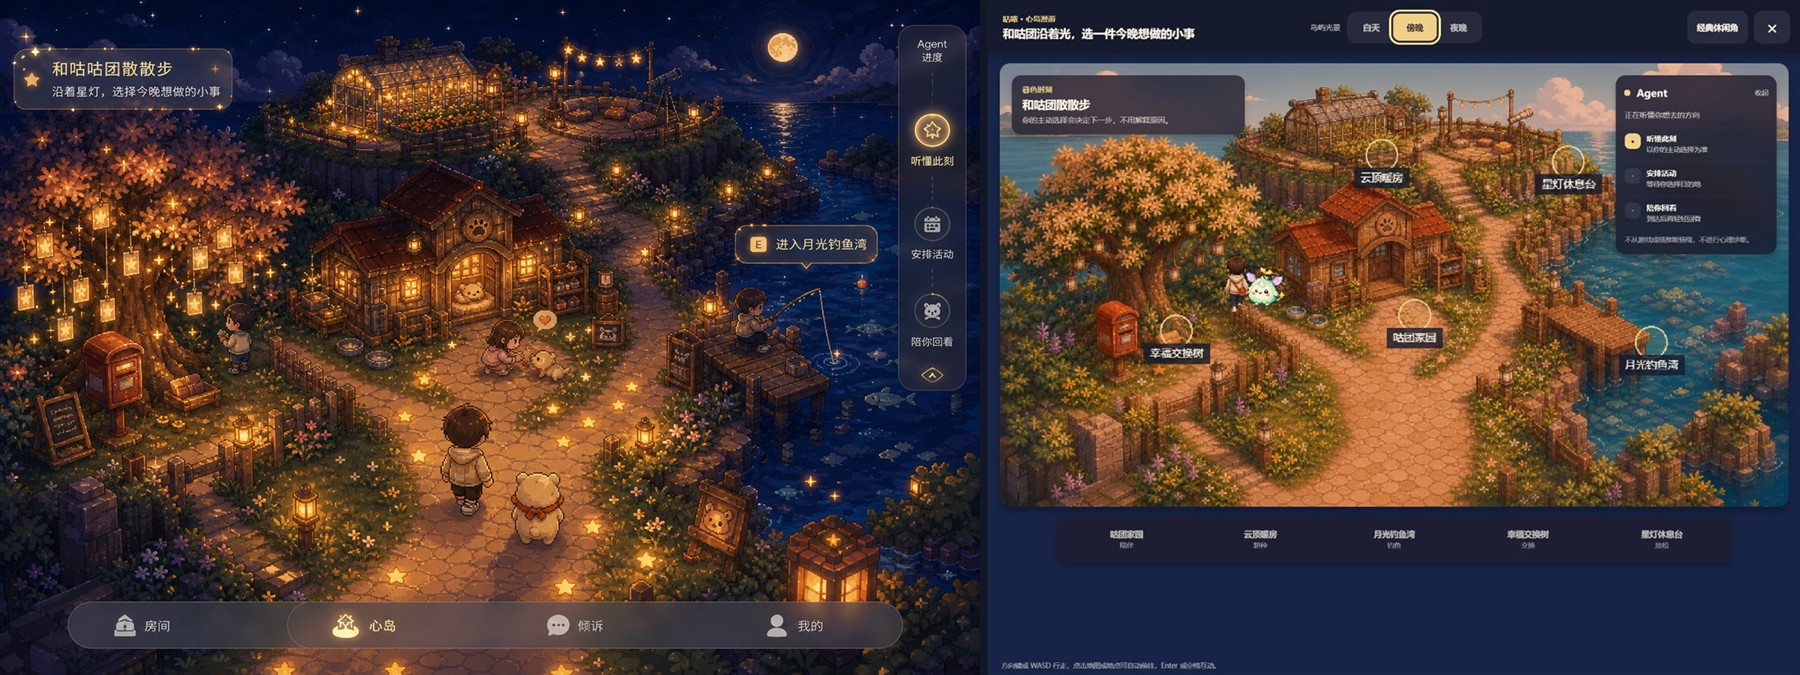
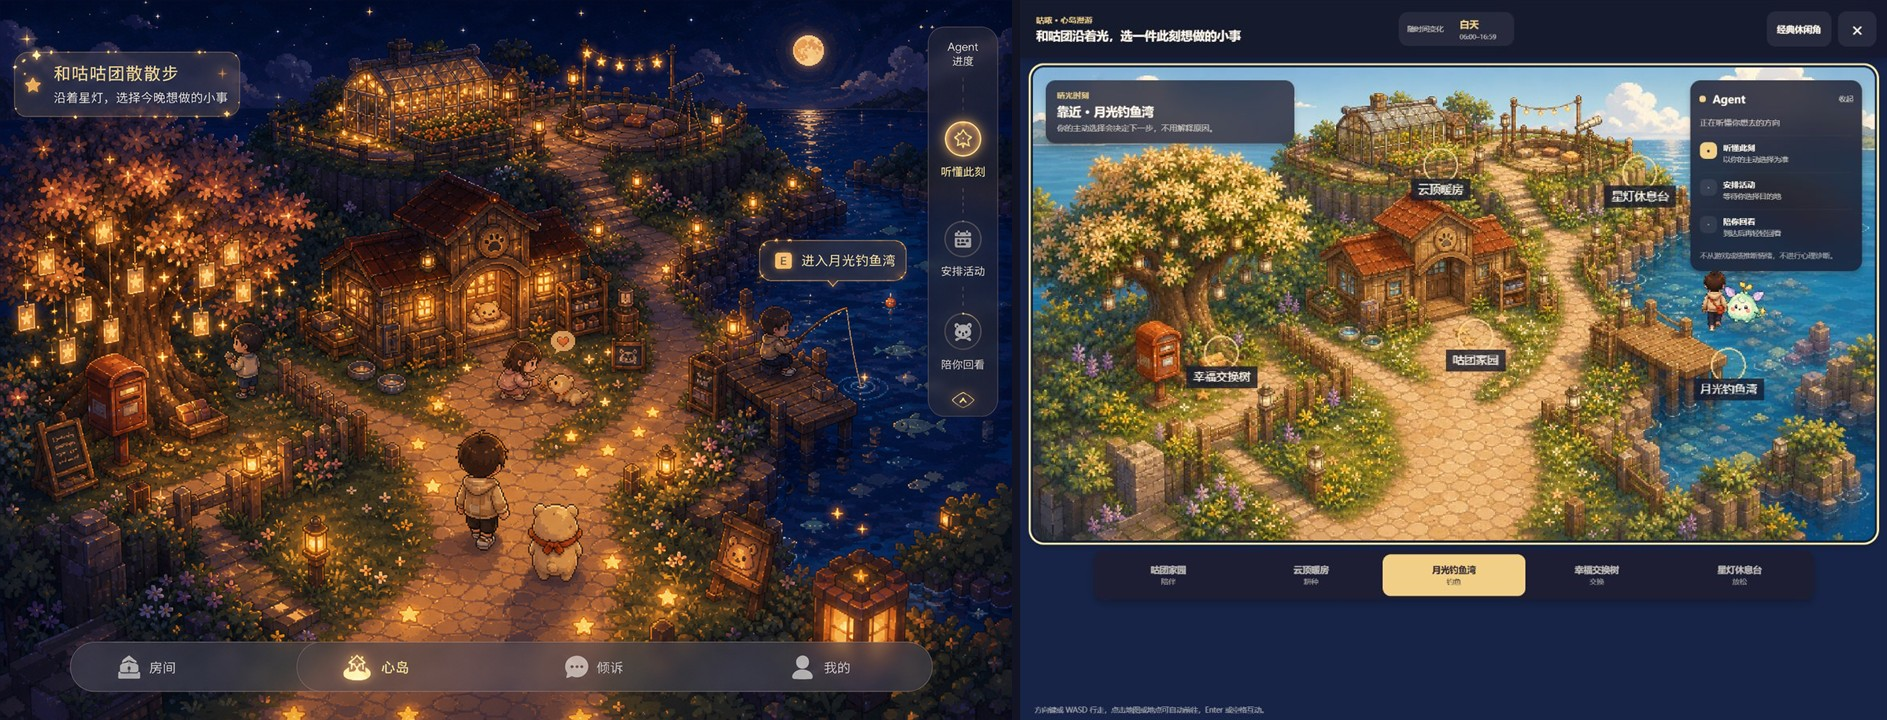
feat: automate heart island day cycle

diff --git a/frontend/src/components/island/StudentIslandWorkspace.vue b/frontend/src/components/island/StudentIslandWorkspace.vue
@@ -13,22 +13,13 @@
     <header class="island-header">
       <div class="island-brand">
         <small>咕哝 · 心岛漫游</small>
-        <h2 id="island-title">和咕团沿着光，选一件今晚想做的小事</h2>
+        <h2 id="island-title">和咕团沿着光，选一件此刻想做的小事</h2>
       </div>
 
-      <div class="island-phase-switch" aria-label="预览心岛时间阶段">
-        <span>岛屿光景</span>
-        <div>
-          <button
-            v-for="phase in phases"
-            :key="phase.id"
-            type="button"
-            :class="{ 'is-active': timePhase === phase.id }"
-            :aria-pressed="timePhase === phase.id"
-            :title="phase.period"
-            @click="setTimePhase(phase.id)"
-          >{{ phase.label }}</button>
-        </div>
+      <div class="island-phase-status" role="status" aria-live="polite" aria-label="心岛光景随本地时间自动变化">
+        <span>随时间变化</span>
+        <strong>{{ activePhase.label }}</strong>
+        <small>{{ activePhase.period }}</small>
       </div>
 
       <div class="island-header-actions">
@@ -130,7 +121,7 @@
 <script setup>
 import { computed, nextTick, onBeforeUnmount, onMounted, ref, watch } from 'vue'
 import { createIslandBridge } from '../../game/island/islandBridge.js'
-import { ISLAND_PHASES, ISLAND_PLACES, loadIslandState, saveIslandState } from '../../game/island/islandState.js'
+import { ISLAND_PHASES, ISLAND_PLACES, loadIslandState, millisecondsUntilNextIslandPhase, resolveIslandPhase, saveIslandState } from '../../game/island/islandState.js'
 
 const props = defineProps({ storageScope: { type: [String, Number], required: true } })
 const emit = defineEmits(['close', 'fallback'])
@@ -166,6 +157,7 @@ let cancelled = false
 let disposers = []
 let gameGeneration = 0
 let startingPromise = null
+let phaseTimer = null
 let movementSource = 'none'
 const pressedDirections = new Set()
 const keyboardDirections = {
@@ -269,11 +261,27 @@ async function startGame() {
   }
 }
 
-function setTimePhase(phase) {
+function syncPhaseWithClock(announce = false) {
+  const phase = resolveIslandPhase()
   if (timePhase.value === phase) return
   timePhase.value = phase
-  persistState()
+  currentState.value = { ...currentState.value, timePhase: phase }
   bridge.emit('command', { type: 'phase', phase })
+  if (announce) liveStatus.value = `心岛已随本地时间进入${activePhase.value.label}，地图与进度保持不变。`
+}
+
+function schedulePhaseSync() {
+  if (phaseTimer) window.clearTimeout(phaseTimer)
+  phaseTimer = window.setTimeout(() => {
+    syncPhaseWithClock(true)
+    schedulePhaseSync()
+  }, millisecondsUntilNextIslandPhase() + 1_000)
+}
+
+function handleVisibilityChange() {
+  if (document.visibilityState !== 'visible') return
+  syncPhaseWithClock(true)
+  schedulePhaseSync()
 }
 
 function agentStepClass(index) {
@@ -384,9 +392,11 @@ onMounted(async () => {
   window.addEventListener('pointerup', stopPointerMoving)
   window.addEventListener('pointercancel', stopPointerMoving)
   window.addEventListener('blur', stopMoving)
+  document.addEventListener('visibilitychange', handleVisibilityChange)
   await nextTick()
   closeButton.value?.focus({ preventScroll: true })
   startGame()
+  schedulePhaseSync()
 })
 
 onBeforeUnmount(() => {
@@ -397,6 +407,9 @@ onBeforeUnmount(() => {
   window.removeEventListener('pointerup', stopPointerMoving)
   window.removeEventListener('pointercancel', stopPointerMoving)
   window.removeEventListener('blur', stopMoving)
+  document.removeEventListener('visibilitychange', handleVisibilityChange)
+  if (phaseTimer) window.clearTimeout(phaseTimer)
+  phaseTimer = null
   disposers.forEach(dispose => dispose())
   disposers = []
   game?.destroy(true)
@@ -435,12 +448,10 @@ onBeforeUnmount(() => {
 .island-brand small, .island-brand h2 { display: block; margin: 0; }
 .island-brand small { color: #f1cf86; font-size: 10px; font-weight: 800; }
 .island-brand h2 { margin-top: 3px; overflow: hidden; font-size: 15px; line-height: 1.35; text-overflow: ellipsis; white-space: nowrap; }
-.island-phase-switch { display: flex; align-items: center; gap: 9px; }
-.island-phase-switch > span { color: var(--island-muted); font-size: 10px; }
-.island-phase-switch > div { display: flex; padding: 3px; border-radius: 12px; background: rgba(255,255,255,.07); }
-.island-phase-switch button { min-width: 58px; min-height: 36px; border: 0; border-radius: 9px; color: rgba(255,248,234,.72); background: transparent; font: inherit; font-size: 11px; font-weight: 700; cursor: pointer; }
-.island-phase-switch button:hover { background: rgba(255,255,255,.08); }
-.island-phase-switch button.is-active { color: #292034; background: #f1cf86; }
+.island-phase-status { display: grid; grid-template-columns: auto auto; align-items: center; gap: 2px 9px; min-width: 144px; padding: 7px 11px; border-radius: 12px; background: rgba(255,255,255,.07); }
+.island-phase-status > span { grid-row: 1 / 3; color: var(--island-muted); font-size: 9px; }
+.island-phase-status strong { color: #f1cf86; font-size: 12px; }
+.island-phase-status small { color: var(--island-muted); font-size: 8px; }
 .island-header-actions { display: flex; justify-content: flex-end; gap: 8px; }
 .island-classic-entry, .island-close { min-height: 44px; border: 0; border-radius: 11px; color: var(--island-ink); background: rgba(255,255,255,.08); font: inherit; cursor: pointer; }
 .island-classic-entry { padding: 0 13px; font-size: 11px; font-weight: 700; }
@@ -517,7 +528,7 @@ onBeforeUnmount(() => {
   .island-workspace { grid-template-rows: auto minmax(0, 1fr); }
   .island-header { grid-template-columns: 1fr auto; gap: 8px; padding: 8px 10px; }
   .island-brand h2 { max-width: 56vw; font-size: 12px; }
-  .island-phase-switch { grid-column: 1 / -1; grid-row: 2; justify-content: center; }
+  .island-phase-status { grid-column: 1 / -1; grid-row: 2; justify-self: center; }
   .island-header-actions { grid-column: 2; grid-row: 1; }
   .island-classic-entry { display: none; }
   .island-stage-shell { align-content: start; padding: 8px 8px calc(150px + env(safe-area-inset-bottom)); overflow-y: auto; }
@@ -539,8 +550,7 @@ onBeforeUnmount(() => {
   .island-mobile-controls .is-interact { color: #2a2130; background: #f1cf86; font-size: 11px; }
 }
 @media (max-width: 520px) {
-  .island-phase-switch > span { display: none; }
-  .island-phase-switch button { min-width: 72px; }
+  .island-phase-status { min-width: 132px; }
   .island-game-surface { min-height: 62vw; }
   .island-mission-glass strong { font-size: 12px; }
 }

diff --git a/frontend/src/game/island/islandState.js b/frontend/src/game/island/islandState.js
@@ -38,6 +38,22 @@ export function normalizeIslandPhase(value, fallback = resolveIslandPhase()) {
   return ISLAND_PHASES.some(phase => phase.id === value) ? value : fallback
 }
 
+export function millisecondsUntilNextIslandPhase(now = new Date()) {
+  const current = now instanceof Date ? new Date(now.getTime()) : new Date(now)
+  if (Number.isNaN(current.getTime())) return 60_000
+  const next = new Date(current.getTime())
+  next.setMinutes(0, 0, 0)
+  const hour = current.getHours()
+  if (hour < 6) next.setHours(6)
+  else if (hour < 17) next.setHours(17)
+  else if (hour < 20) next.setHours(20)
+  else {
+    next.setDate(next.getDate() + 1)
+    next.setHours(6)
+  }
+  return Math.max(1_000, next.getTime() - current.getTime())
+}
+
 export function islandStorageKey(scope) {
   const safeScope = String(scope || '').replace(/[^a-zA-Z0-9_-]/g, '').slice(0, 48)
   return safeScope ? `shengyu_island_v5_1_${safeScope}` : ''
@@ -50,7 +66,7 @@ export function loadIslandState(scope, storage = globalThis.localStorage) {
   try {
     const parsed = JSON.parse(storage.getItem(key) || '{}')
     const lastPlace = ISLAND_PLACES.some(place => place.id === parsed.lastPlace) ? parsed.lastPlace : 'home'
-    return { position: clampIslandPosition(parsed.position), lastPlace, timePhase: normalizeIslandPhase(parsed.timePhase) }
+    return { position: clampIslandPosition(parsed.position), lastPlace, timePhase: resolveIslandPhase() }
   } catch {
     return defaultState
   }
@@ -61,10 +77,9 @@ export function saveIslandState(scope, state, storage = globalThis.localStorage)
   if (!storage || !key) return
   try {
     storage.setItem(key, JSON.stringify({
-      version: 2,
+      version: 3,
       position: clampIslandPosition(state?.position),
       lastPlace: ISLAND_PLACES.some(place => place.id === state?.lastPlace) ? state.lastPlace : 'home',
-      timePhase: normalizeIslandPhase(state?.timePhase),
     }))
   } catch {
     // Storage can be unavailable in private/restricted contexts; the island stays usable in memory.

diff --git a/backend/tests/test_release_health.py b/backend/tests/test_release_health.py
@@ -13,7 +13,7 @@ from main import health, root
 
 class ReleaseHealthTests(unittest.TestCase):
     def test_release_version_is_synchronized(self):
-        self.assertEqual(settings.RELEASE_VERSION, "5.1.0-alpha.8")
+        self.assertEqual(settings.RELEASE_VERSION, "5.1.0-alpha.9")
         self.assertEqual(asyncio.run(root())["version"], settings.RELEASE_VERSION)
         self.assertEqual(asyncio.run(health())["version"], settings.RELEASE_VERSION)
 

diff --git a/backend/config.py b/backend/config.py
@@ -6,7 +6,7 @@ from pydantic_settings import BaseSettings
 
 class Settings(BaseSettings):
     APP_ENV: Literal["development", "test", "production"] = "development"
-    RELEASE_VERSION: str = "5.1.0-alpha.8"
+    RELEASE_VERSION: str = "5.1.0-alpha.9"
     DATABASE_URL: str = "sqlite:///./shengyu_v5_dev.db"
     DEMO_MODE: bool = True
     SESSION_COOKIE_NAME: str = "shengyu_session"

diff --git a/design-qa.md b/design-qa.md
@@ -9,12 +9,12 @@
 - Viewport: 1081 × 898 CSS px，device scale factor 1
 - Source pixels: 1536 × 1024；implementation pixels: 1081 × 898
 - Normalization: comparison preview统一到 720 px 高度，源图约 1080 × 720，实装约 867 × 720，中间 8 px 分隔；未裁切关键 UI。
-- State: 傍晚光景、Agent 轨迹展开、学生与咕团位于幸福交换树附近。
+- State: 设备本地时间 11:57，对应白天光景；Agent 轨迹展开，学生与咕团位于月光钓鱼湾附近。
 
 ## Full-view comparison evidence
 
 - 实装保留了选定图的第三人称斜俯视岛屿、暖木建筑、陶土屋顶、琥珀光、深靛蓝外壳、学生与宠物同行、右侧 Agent 轨迹和低干扰玻璃界面。
-- 因新增“白天 / 傍晚 / 夜晚”要求，实装将时间切换放入顶部稳定控制区；五个目的地保持同一地图和坐标，不因光景切换重置。
+- 因新增“白天 / 傍晚 / 夜晚”要求，实装在顶部显示当前自动光景与适用时段；五个目的地保持同一地图和坐标，不因跨时段更新重置。
 - 实装比源图略微拉远，以便同屏保留五个可到达区域和快捷导航。这是可玩性约束下的有意调整，没有改变核心视觉方向。
 
 ## Focused-region comparison evidence
@@ -40,15 +40,15 @@
 
 ## Primary interactions checked
 
-- 白天、傍晚、夜晚切换与 `aria-pressed` 状态。
+- 白天、傍晚、夜晚按本地时间解析、跨时段自动更新与无障碍状态播报。
 - WASD / 方向键移动、Enter 互动、地点快捷寻路。
 - Agent 轨迹展开、Esc 关闭、焦点可见状态。
-- 本地页面加载、地图与角色资产加载、版本徽标 `5.1.0-alpha.8`；浏览器交互过程中未出现页面级错误。
+- 本地页面加载、地图与角色资产加载、版本徽标 `5.1.0-alpha.9`；浏览器交互过程中未出现页面级错误。
 
 ## Implementation checklist
 
 - [x] 保持暖色像素主视觉和液态玻璃控制层。
-- [x] 同一地图支持白天、傍晚、夜晚连续阶段。
+- [x] 同一地图依据本地时间自动进入白天、傍晚、夜晚连续阶段，无手动覆盖入口。
 - [x] 学生与咕团真实位图角色进入地图。
 - [x] 五个地点、Agent 轨迹、键盘和触控入口完整。
 - [x] 修复所有 P0 / P1 / P2 并完成二次视觉比较。

diff --git a/CHANGELOG.md b/CHANGELOG.md
@@ -1,5 +1,11 @@
 # 更新日志
 
+## [5.1.0-alpha.9] - 2026-08-26
+
+- 心岛光景改为完全依据学生设备本地时间自动切换：06:00–16:59 为白天、17:00–19:59 为傍晚、20:00–05:59 为夜晚，移除手动切换控件。
+- 页面持续打开或从后台恢复时会自动校准光景；跨越时间边界只更新光照与状态提示，不重建地图，也不重置位置和探索进度。
+- 存档升级为版本 3，不再保存可覆盖真实时间的光景字段；旧存档仍保留学生位置和最近地点，并在加载时使用当前时间。
+
 ## [5.1.0-alpha.8] - 2026-08-25
 
 - 心岛改为“星灯漫游”第三人称斜俯视世界，接入原创高清像素场景资产，并把原有右侧大面板收敛为顶部光景切换、底部地点导航和右侧窄 Agent 轨迹。
